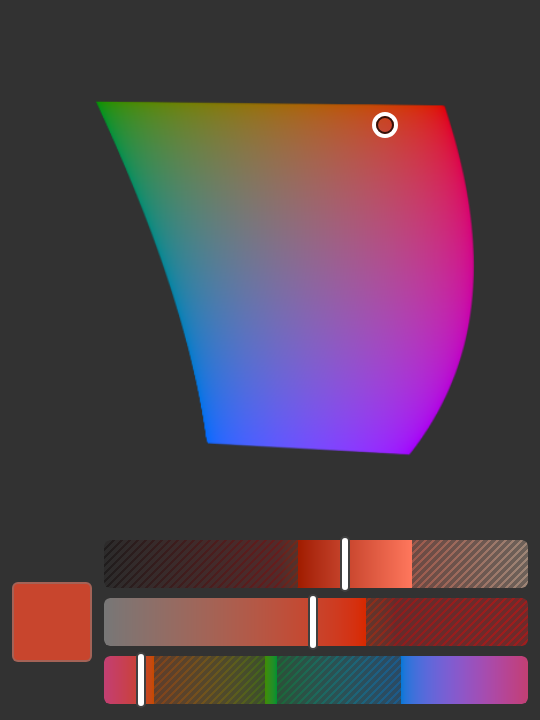
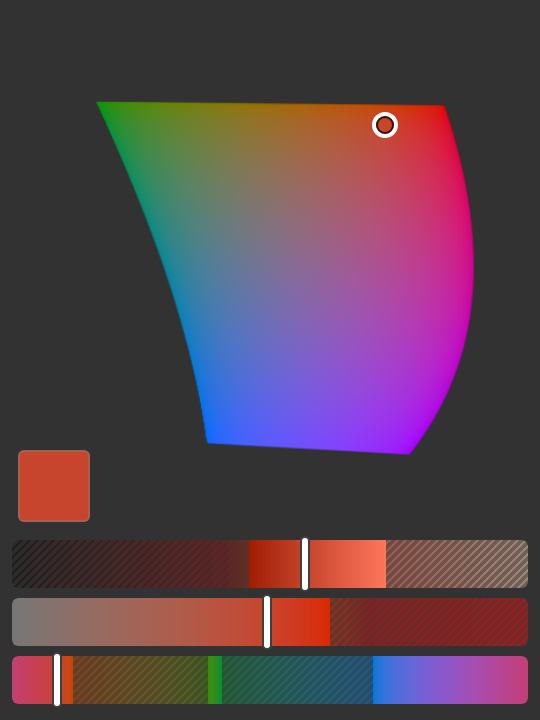
Move the swatch into the diagram's dead corner, and rename the panel
A rounded hull in a rectangle leaves the corners empty for good, so the
current colour goes in one and costs no layout space at all: the tracks
get the full width back.  `pointer-events: none` keeps the diagram
draggable underneath, so nothing is lost by covering that ground.

Which corner is not a constant, which is why this is computed rather than
hardcoded.  spaceExtent now also records the gamut's shadow on the a/b
plane - the largest chroma each hue reaches at any lightness - and
freeCorner bisects for the biggest corner square that shadow misses.  Most
RGB spaces lean away from blue-green and free up the bottom left (sRGB:
30% of the diagram's width), but ProPhoto's imaginary primaries fill that
corner and vacate the top left at 28%, so the swatch moves with the
document.  The projection is treated as 5% larger than measured, since it
is sampled every 2 degrees at 14 bisection steps and an overlap would be
worse than a slightly smaller badge.

A test rasterises every space at 19 lightnesses and asserts not one pixel
of the chosen corner is ever painted.

Panel renamed from "OKLCH Picker" to "OKLCH", in the manifest's plugin
name and panel label and in the document title.

Claude-Session: https://claude.ai/code/session_01RCCs7LZisFv81s1Z1NryuC

Changed region(s): [[0.0, 0.7333, 0.9778, 0.9778], [0.0296, 0.6111, 0.1778, 0.7333]]

diff --git a/src/color.js b/src/color.js
@@ -364,12 +364,20 @@
   function spaceExtent(space) {
     if (space._extent) return space._extent;
     var best = 0, aMin = 0, aMax = 0, bMin = 0, bMax = 0;
+    // The gamut's shadow on the a/b plane: the largest chroma each hue reaches
+    // at *any* lightness.  Star-shaped in chroma like a single slice, because a
+    // hue that can hold some chroma at one lightness can hold less at the same
+    // one, so the whole radius up to the limit is covered.
+    var samples = 180;
+    var projection = new Float64Array(samples + 1);
     for (var li = 1; li < 100; li++) {
       var L = li / 100;
-      for (var hi2 = 0; hi2 < 360; hi2 += 2) {
-        var c = maxChroma(space, L, hi2, 14);
+      for (var si = 0; si < samples; si++) {
+        var h = si * 2;
+        var c = maxChroma(space, L, h, 14);
         if (c > best) best = c;
-        var rad = hi2 * DEG;
+        if (c > projection[si]) projection[si] = c;
+        var rad = h * DEG;
         var a = c * Math.cos(rad), b = c * Math.sin(rad);
         if (a < aMin) aMin = a;
         if (a > aMax) aMax = a;
@@ -377,7 +385,11 @@
         if (b > bMax) bMax = b;
       }
     }
-    space._extent = { maxChroma: best, aMin: aMin, aMax: aMax, bMin: bMin, bMax: bMax };
+    projection[samples] = projection[0];
+    space._extent = {
+      maxChroma: best, aMin: aMin, aMax: aMax, bMin: bMin, bMax: bMax,
+      projection: projection
+    };
     return space._extent;
   }
 
@@ -419,6 +431,64 @@
     }
     out[samples] = out[0];
     return out;
+  }
+
+  /**
+   * The biggest square in a corner of the plot window that the gamut never
+   * reaches, at any lightness — somewhere to park a badge without covering the
+   * picture.  Returns the corner and the square's side as a fraction of the
+   * window's width; because the window's aspect matches the gamut's, a square
+   * in chroma units is a square in pixels too.
+   *
+   * Which corner wins depends on the space: most RGB spaces lean away from the
+   * blue-green quadrant and leave the bottom left free, but ProPhoto's
+   * imaginary primaries fill that and vacate the top left instead.
+   */
+  function freeCorner(space) {
+    if (space._freeCorner) return space._freeCorner;
+    var box = spaceBounds(space);
+    var proj = spaceExtent(space).projection;
+    var width = box.aMax - box.aMin;
+    var height = box.bMax - box.bMin;
+    // The projection is sampled every 2 degrees at 14 bisection steps, so treat
+    // the hull as a little bigger than measured rather than risk an overlap.
+    var safety = 1.05;
+    var GRID = 12;
+
+    function clear(side, right, top) {
+      var a0 = right ? box.aMax - side : box.aMin;
+      var b0 = top ? box.bMax - side : box.bMin;
+      for (var i = 0; i <= GRID; i++) {
+        var a = a0 + side * (i / GRID);
+        for (var j = 0; j <= GRID; j++) {
+          var b = b0 + side * (j / GRID);
+          var h = Math.atan2(b, a) / DEG;
+          if (h < 0) h += 360;
+          if (Math.sqrt(a * a + b * b) <= envelopeAt(proj, h) * safety) return false;
+        }
+      }
+      return true;
+    }
+
+    var best = { x: 'left', y: 'bottom', size: 0 };
+    [['left', 'bottom'], ['right', 'bottom'], ['left', 'top'], ['right', 'top']].forEach(function (c) {
+      var right = c[0] === 'right', top = c[1] === 'top';
+      // A smaller corner square is contained in a bigger one, so "is it clear"
+      // is monotone and bisection finds the largest that is.
+      var lo = 0, hi = Math.min(width, height);
+      if (!clear(hi, right, top)) {
+        for (var k = 0; k < 22; k++) {
+          var mid = (lo + hi) * 0.5;
+          if (clear(mid, right, top)) lo = mid; else hi = mid;
+        }
+      } else {
+        lo = hi;
+      }
+      if (lo > best.size) best = { x: c[0], y: c[1], size: lo };
+    });
+
+    space._freeCorner = { x: best.x, y: best.y, size: best.size / width };
+    return space._freeCorner;
   }
 
   function envelopeAt(env, hDeg) {
@@ -635,6 +705,7 @@
     spaceExtent: spaceExtent,
     spaceMaxChroma: spaceMaxChroma,
     spaceBounds: spaceBounds,
+    freeCorner: freeCorner,
     chromaEnvelope: chromaEnvelope,
     envelopeAt: envelopeAt,
 

diff --git a/src/ui.js b/src/ui.js
@@ -408,8 +408,8 @@
   // chrome steps down through progressively tighter metrics.
 
   var BODY_PAD = 6;       // must match the body's padding in styles.css
-  var SWATCH_GAP = 6;     // ...and .swatch's right margin
-  var SWATCH_MAX = 40;    // the swatch is a preview, not a feature
+  var SWATCH_INSET = 3;   // gap between the swatch and the diagram's corner
+  var SWATCH_MAX = 36;    // the swatch is a preview, not a feature
   var TRACK_MAX = 32;     // tallest the axis ramps are allowed to grow
 
   var DENSITY = [
@@ -475,9 +475,6 @@
       if (grow > 0) track += grow;
     }
 
-    var stack = 3 * track + 2 * d.trackGap;
-    var swatch = Math.min(stack, SWATCH_MAX);
-
     var changed = plotW !== layoutSizes.plotW || plotH !== layoutSizes.plotH ||
       track !== layoutSizes.track;
     layoutSizes = { plotW: plotW, plotH: plotH, aspect: aspect, track: track };
@@ -485,10 +482,17 @@
     els.plot.style.width = plotW + 'px';
     els.plot.style.height = plotH + 'px';
 
-    els.controls.style.marginTop = d.rowGap + 'px';
+    // Park the colour in the corner of the diagram the gamut never reaches.
+    var corner = OKColor.freeCorner(activeSpace());
+    var swatch = Math.round(clamp(corner.size * plotW - 2 * SWATCH_INSET, 10, SWATCH_MAX));
     els.swatch.style.width = swatch + 'px';
     els.swatch.style.height = swatch + 'px';
-    els.swatch.style.marginRight = SWATCH_GAP + 'px';
+    els.swatch.style.left =
+      (corner.x === 'left' ? SWATCH_INSET : plotW - swatch - SWATCH_INSET) + 'px';
+    els.swatch.style.top =
+      (corner.y === 'top' ? SWATCH_INSET : plotH - swatch - SWATCH_INSET) + 'px';
+
+    els.sliders.style.marginTop = d.rowGap + 'px';
 
     for (var t = 0; t < els.tracks.length; t++) {
       els.tracks[t].style.height = track + 'px';
@@ -545,8 +549,8 @@
       root: $('root'),
       plot: $('plot'),
       plotMarker: $('plotMarker'),
-      controls: $('controls'),
       swatch: $('swatch'),
+      sliders: $('sliders'),
       lTrack: $('lTrack'), lThumb: $('lThumb'),
       cTrack: $('cTrack'), cThumb: $('cThumb'),
       hTrack: $('hTrack'), hThumb: $('hThumb')

diff --git a/index.html b/index.html
@@ -2,7 +2,7 @@
 <html>
 <head>
   <meta charset="utf-8">
-  <title>OKLCH Picker</title>
+  <title>OKLCH</title>
   <link rel="stylesheet" href="src/styles.css">
 </head>
 <body>
@@ -11,25 +11,23 @@
     <div id="plotrow" class="plotrow">
       <div id="plot" class="plot">
         <div id="plotSurface" class="surface"></div>
+        <div id="swatch" class="swatch"></div>
         <div id="plotMarker" class="marker"><i></i></div>
       </div>
     </div>
 
-    <div id="controls" class="controls">
-      <div id="swatch" class="swatch"></div>
-      <div id="sliders" class="sliders">
-        <div id="lTrack" class="track">
-          <div id="lTrackSurface" class="surface"></div>
-          <div id="lThumb" class="thumb"></div>
-        </div>
-        <div id="cTrack" class="track">
-          <div id="cTrackSurface" class="surface"></div>
-          <div id="cThumb" class="thumb"></div>
-        </div>
-        <div id="hTrack" class="track">
-          <div id="hTrackSurface" class="surface"></div>
-          <div id="hThumb" class="thumb"></div>
-        </div>
+    <div id="sliders" class="sliders">
+      <div id="lTrack" class="track">
+        <div id="lTrackSurface" class="surface"></div>
+        <div id="lThumb" class="thumb"></div>
+      </div>
+      <div id="cTrack" class="track">
+        <div id="cTrackSurface" class="surface"></div>
+        <div id="cThumb" class="thumb"></div>
+      </div>
+      <div id="hTrack" class="track">
+        <div id="hTrackSurface" class="surface"></div>
+        <div id="hThumb" class="thumb"></div>
       </div>
     </div>
 

diff --git a/test/render.test.js b/test/render.test.js
@@ -216,3 +216,30 @@ test('marker geometry round-trips through an off-centre window', () => {
   assert.ok(grey.x > 0 && grey.x < 1 && grey.y > 0 && grey.y < 1, 'neutral is in view');
   assert.ok(grey.y < 0.45, 'neutral sits above the middle, got ' + grey.y);
 });
+
+test('the free corner is never painted, in any space at any lightness', () => {
+  C.spaceList.forEach((sp) => {
+    const bounds = C.spaceBounds(sp);
+    const corner = C.freeCorner(sp);
+    const w = 80;
+    const h = Math.max(8, Math.round(w * (bounds.bMax - bounds.bMin) / (bounds.aMax - bounds.aMin)));
+    const side = Math.floor(corner.size * w);
+
+    assert.ok(corner.size >= 0.18,
+      sp.id + ' should leave somewhere to put the swatch, got ' +
+      (corner.size * 100).toFixed(1) + '%');
+
+    for (let li = 1; li < 20; li++) {
+      const L = li / 20;
+      const img = R.chPlot({ space: sp, L, bounds, width: w, height: h });
+      for (let dy = 0; dy < side; dy++) {
+        for (let dx = 0; dx < side; dx++) {
+          const x = corner.x === 'left' ? dx : w - 1 - dx;
+          const y = corner.y === 'top' ? dy : h - 1 - dy;
+          assert.strictEqual(img.data[(y * w + x) * 4 + 3], 0,
+            sp.id + ': ' + corner.y + '-' + corner.x + ' corner painted at L=' + L);
+        }
+      }
+    }
+  });
+});

diff --git a/src/styles.css b/src/styles.css
@@ -92,29 +92,26 @@ body {
   border-radius: 5px;
 }
 
-/* ------------------------------------------------- swatch and axis tracks */
-
-.controls {
-  flex: 0 0 auto;
-  display: flex;
-  flex-direction: row;
-  align-items: center;
-  margin-top: 6px;
-}
-
+/* The current colour lives in whichever corner of the diagram the gamut never
+   reaches, so it costs no space of its own.  ui.js picks the corner and the
+   size; `pointer-events: none` keeps the whole diagram draggable underneath. */
 .swatch {
-  flex: 0 0 auto;
-  width: 40px;
-  height: 40px;
-  margin-right: 6px;
+  position: absolute;
+  left: 0;
+  top: 0;
+  width: 32px;
+  height: 32px;
   border: 1px solid rgba(127, 127, 127, 0.5);
   border-radius: 3px;
   background-color: #000000;
+  pointer-events: none;
 }
 
+/* ---------------------------------------------------------- axis tracks */
+
 .sliders {
-  flex: 1 1 auto;
-  min-width: 0;
+  flex: 0 0 auto;
+  margin-top: 6px;
 }
 
 .track {

diff --git a/src/ps.js b/src/ps.js
@@ -4,7 +4,7 @@
  *
  * Every entry point degrades gracefully when the host is missing, so the same
  * files can be opened in a browser (or required from node) while working on the
- * UI.  `available()` tells the panel which controls to disable.
+ * UI.  `available()` tells the panel whether there is anything to sync with.
  */
 (function (root, factory) {
   var api = factory();

diff --git a/README.md b/README.md
@@ -1,4 +1,4 @@
-# OKLCH Picker for Photoshop
+# OKLCH — a colour picker for Photoshop
 
 A UXP panel for Adobe Photoshop that picks colours in **OKLCH** — the perceptual
 lightness / chroma / hue model — and shows you exactly which of those colours
@@ -51,7 +51,7 @@ fit inside the current document's colour space.
 1. Install the [UXP Developer Tool](https://developer.adobe.com/photoshop/uxp/2022/guides/devtool/)
    and start Photoshop.
 2. In UDT, **Add Plugin…** and select this repository's `manifest.json`.
-3. Press **Load**. The panel appears under **Plugins → OKLCH Picker**.
+3. Press **Load**. The panel appears under **Plugins → OKLCH**.
 
 `Load` again after editing a file, or use UDT's **Watch** to reload on save.
 
@@ -81,7 +81,7 @@ with [UPIA](https://developer.adobe.com/photoshop/uxp/2022/guides/distribution/)
 | Top track | Lightness. The diagram is redrawn for the new slice. |
 | Middle track | Chroma, up to the largest the space can hold anywhere. |
 | Bottom track | Hue, right round the circle. |
-| Swatch | The colour you are on, which is also Photoshop's foreground colour. |
+| Swatch | The colour you are on, which is also Photoshop's foreground colour. It sits inside the diagram, in a corner the gamut cannot reach, and drags pass straight through it. |
 
 Both the diagram and the tracks write straight through to the foreground
 swatch, live, while you drag.
@@ -115,6 +115,15 @@ number of pixels.
 A single slice still does not fill the window — at L = 0.57 about 17% of the
 height is above the shape — because the window has to stay put while the slice
 grows and shrinks. That is the price of a stable scale.
+
+The corners are a different matter: a rounded hull in a rectangle leaves them
+empty for good, so the swatch goes in one of them and costs no layout space at
+all. Which one is not a constant. The panel projects the whole gamut onto the
+a/b plane — the largest chroma each hue reaches at *any* lightness — and finds
+the biggest corner square that projection misses. Most RGB spaces lean away
+from blue-green and free up the bottom left (sRGB: 30% of the diagram's width),
+but ProPhoto's imaginary primaries fill that corner and vacate the top left
+instead, so the swatch moves there when the document does.
 
 ### Things worth knowing
 
